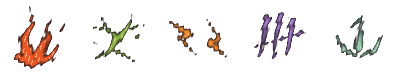
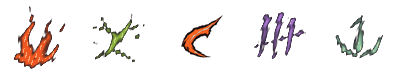
art: give Backlash a connected ink hook

Changed region(s): [[0.42, 0.2, 0.57, 0.725]]

diff --git a/docs/backlog/packets/P-STORM-BACKLASH-READABILITY-1.md b/docs/backlog/packets/P-STORM-BACKLASH-READABILITY-1.md
@@ -28,6 +28,7 @@ Keep Backlash on the existing confirmed `SigHit` path and retain its two-part re
 - `client-unity/UnityProject/Assets/Scripts/Presentation/StormInkHitMarks.cs`
 - `client-unity/UnityProject/Assets/Scripts/View/ArenaView.Fx.cs`
 - `client-unity/UnityProject/Assets/Tests/Editor/StormInkHitMarkEditModeTests.cs`
+- `client-unity/UnityProject/Assets/Resources/StormInk/Combat/SignatureBrushes.png` (Backlash cell only; other atlas cells must remain pixel-identical)
 - this packet brief
 
 ## 6. Contracts and references
@@ -40,7 +41,7 @@ Keep Backlash on the existing confirmed `SigHit` path and retain its two-part re
 
 - The mark is selected only for an already confirmed `SigHit`; no predicted or local attack cue is added.
 - Burn, Disease, Mark, Heal and ordinary hit rendering retain their positions, size, colors, timing and pooling.
-- Backlash retains the existing reverse-facing brush artwork and damage number.
+- Backlash retains its reverse-facing identity and damage number, with the reviewed connected reverse-hook brush in place of the split flecks.
 - All marks expire through the existing 0.55-second pooled flash path. Reduced motion freezes mark scale at its initial size. The mark remains attached to the delivered victim position.
 - Protocol bytes, game rules, hitboxes, source attribution and damage are unchanged.
 
@@ -49,7 +50,8 @@ Keep Backlash on the existing confirmed `SigHit` path and retain its two-part re
 - The new red oracle fails on the base assertion because Backlash is still anchored at the boot/inner ring and uses the common small mark size.
 - The oracle passes after the focused Backlash-only placement/size change and proves all other signature anchors and sizes stay unchanged.
 - Re-run the existing 18-case bright/dark native signature-mark comparison; other marks, contact expiry, number duration, reduced motion and reuse remain intact.
-- Capture matched before/after frames at the same gameplay-scale Fire warm-ground stage and camera. The reverse mark must sit outside the victim foot/target ring, read as its existing split outward shape, and leave the nearest damage number legible.
+- Capture matched before/after frames at the same gameplay-scale Fire warm-ground stage and camera. The hook must sit outside the victim foot/target ring and leave the label and nearest damage number legible.
+- Keep the existing displacement and scale. Replace only the Backlash atlas cell with a connected tapered dark-ink silhouette and narrow warm-ash highlight; confirm all other cells are unchanged.
 - No tracker row is marked passed by this packet; the Web gameplay readability check remains open for owner review.
 
 ## Oracle files
@@ -63,7 +65,7 @@ Keep Backlash on the existing confirmed `SigHit` path and retain its two-part re
 
 ## 10. Risk and suggested model tier
 
-A larger or shifted stamp can collide with floating numbers or look like another faction effect. Keep the existing Backlash silhouette and use the same placement function for event and native preview; compare at 1:1 render scale.
+A larger or shifted stamp can collide with floating numbers or look like another faction effect. Keep the effect restrained and use the same placement function for event and native preview; compare at 1:1 render scale.
 
 ## 11. Known traps
 
